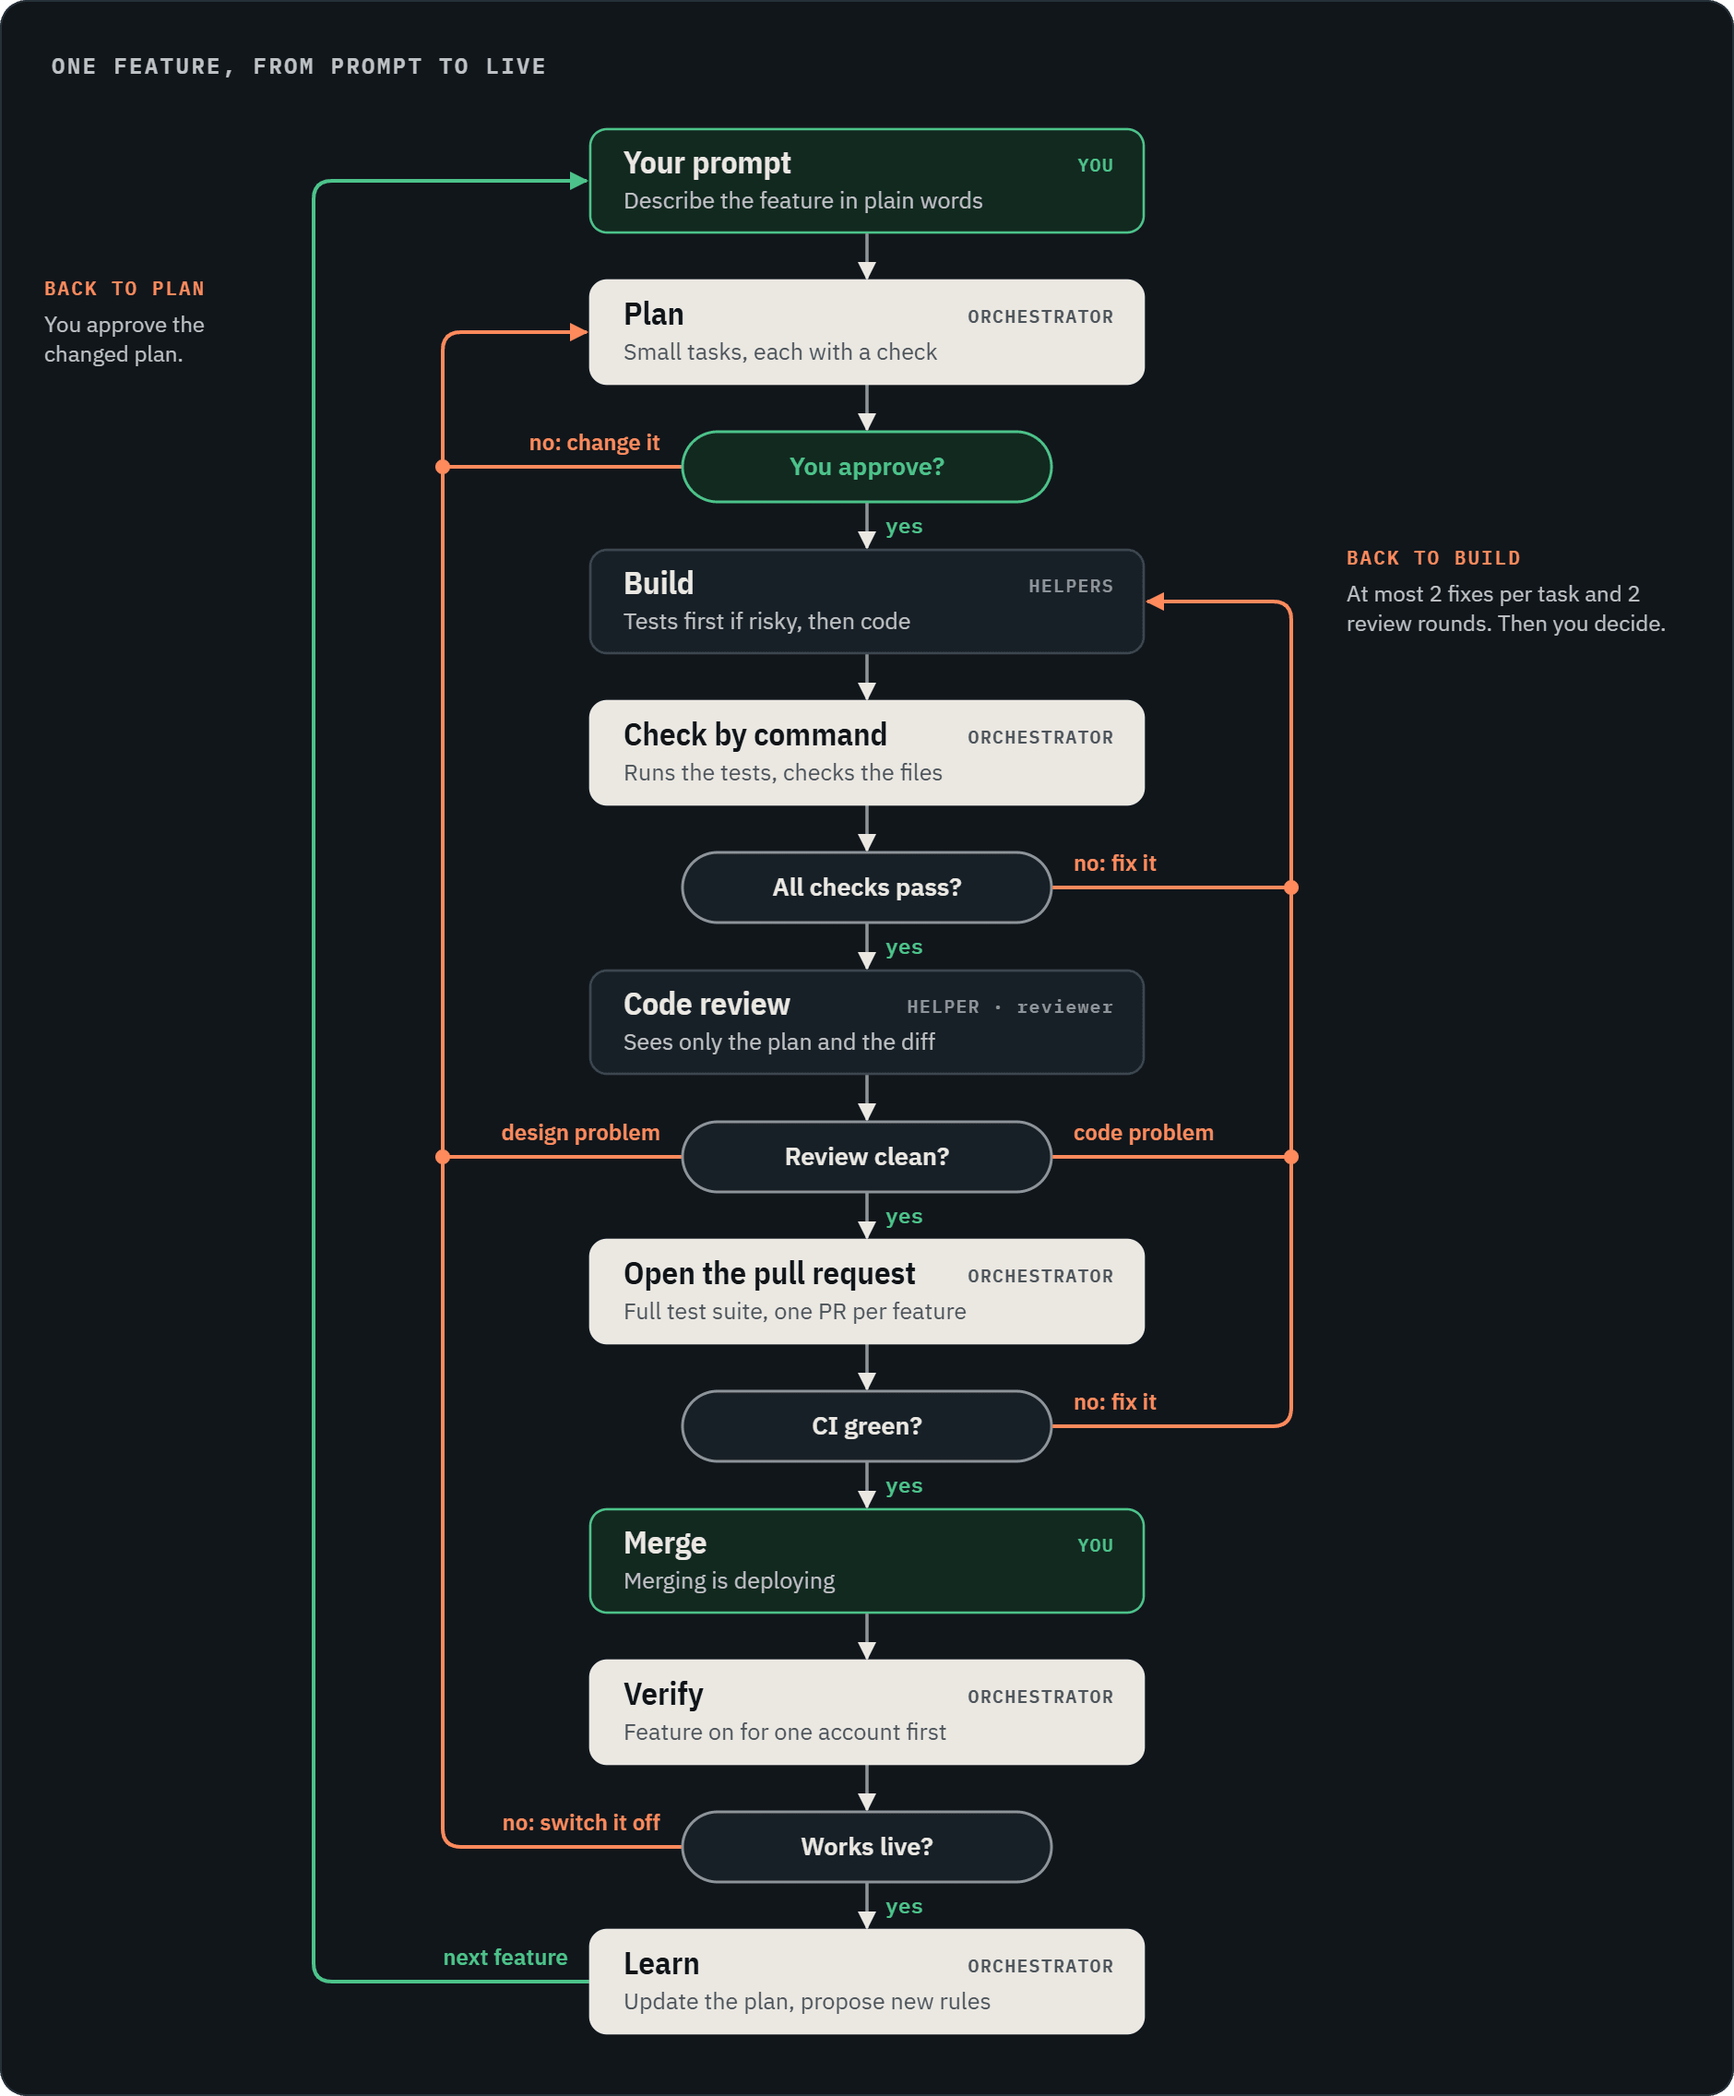
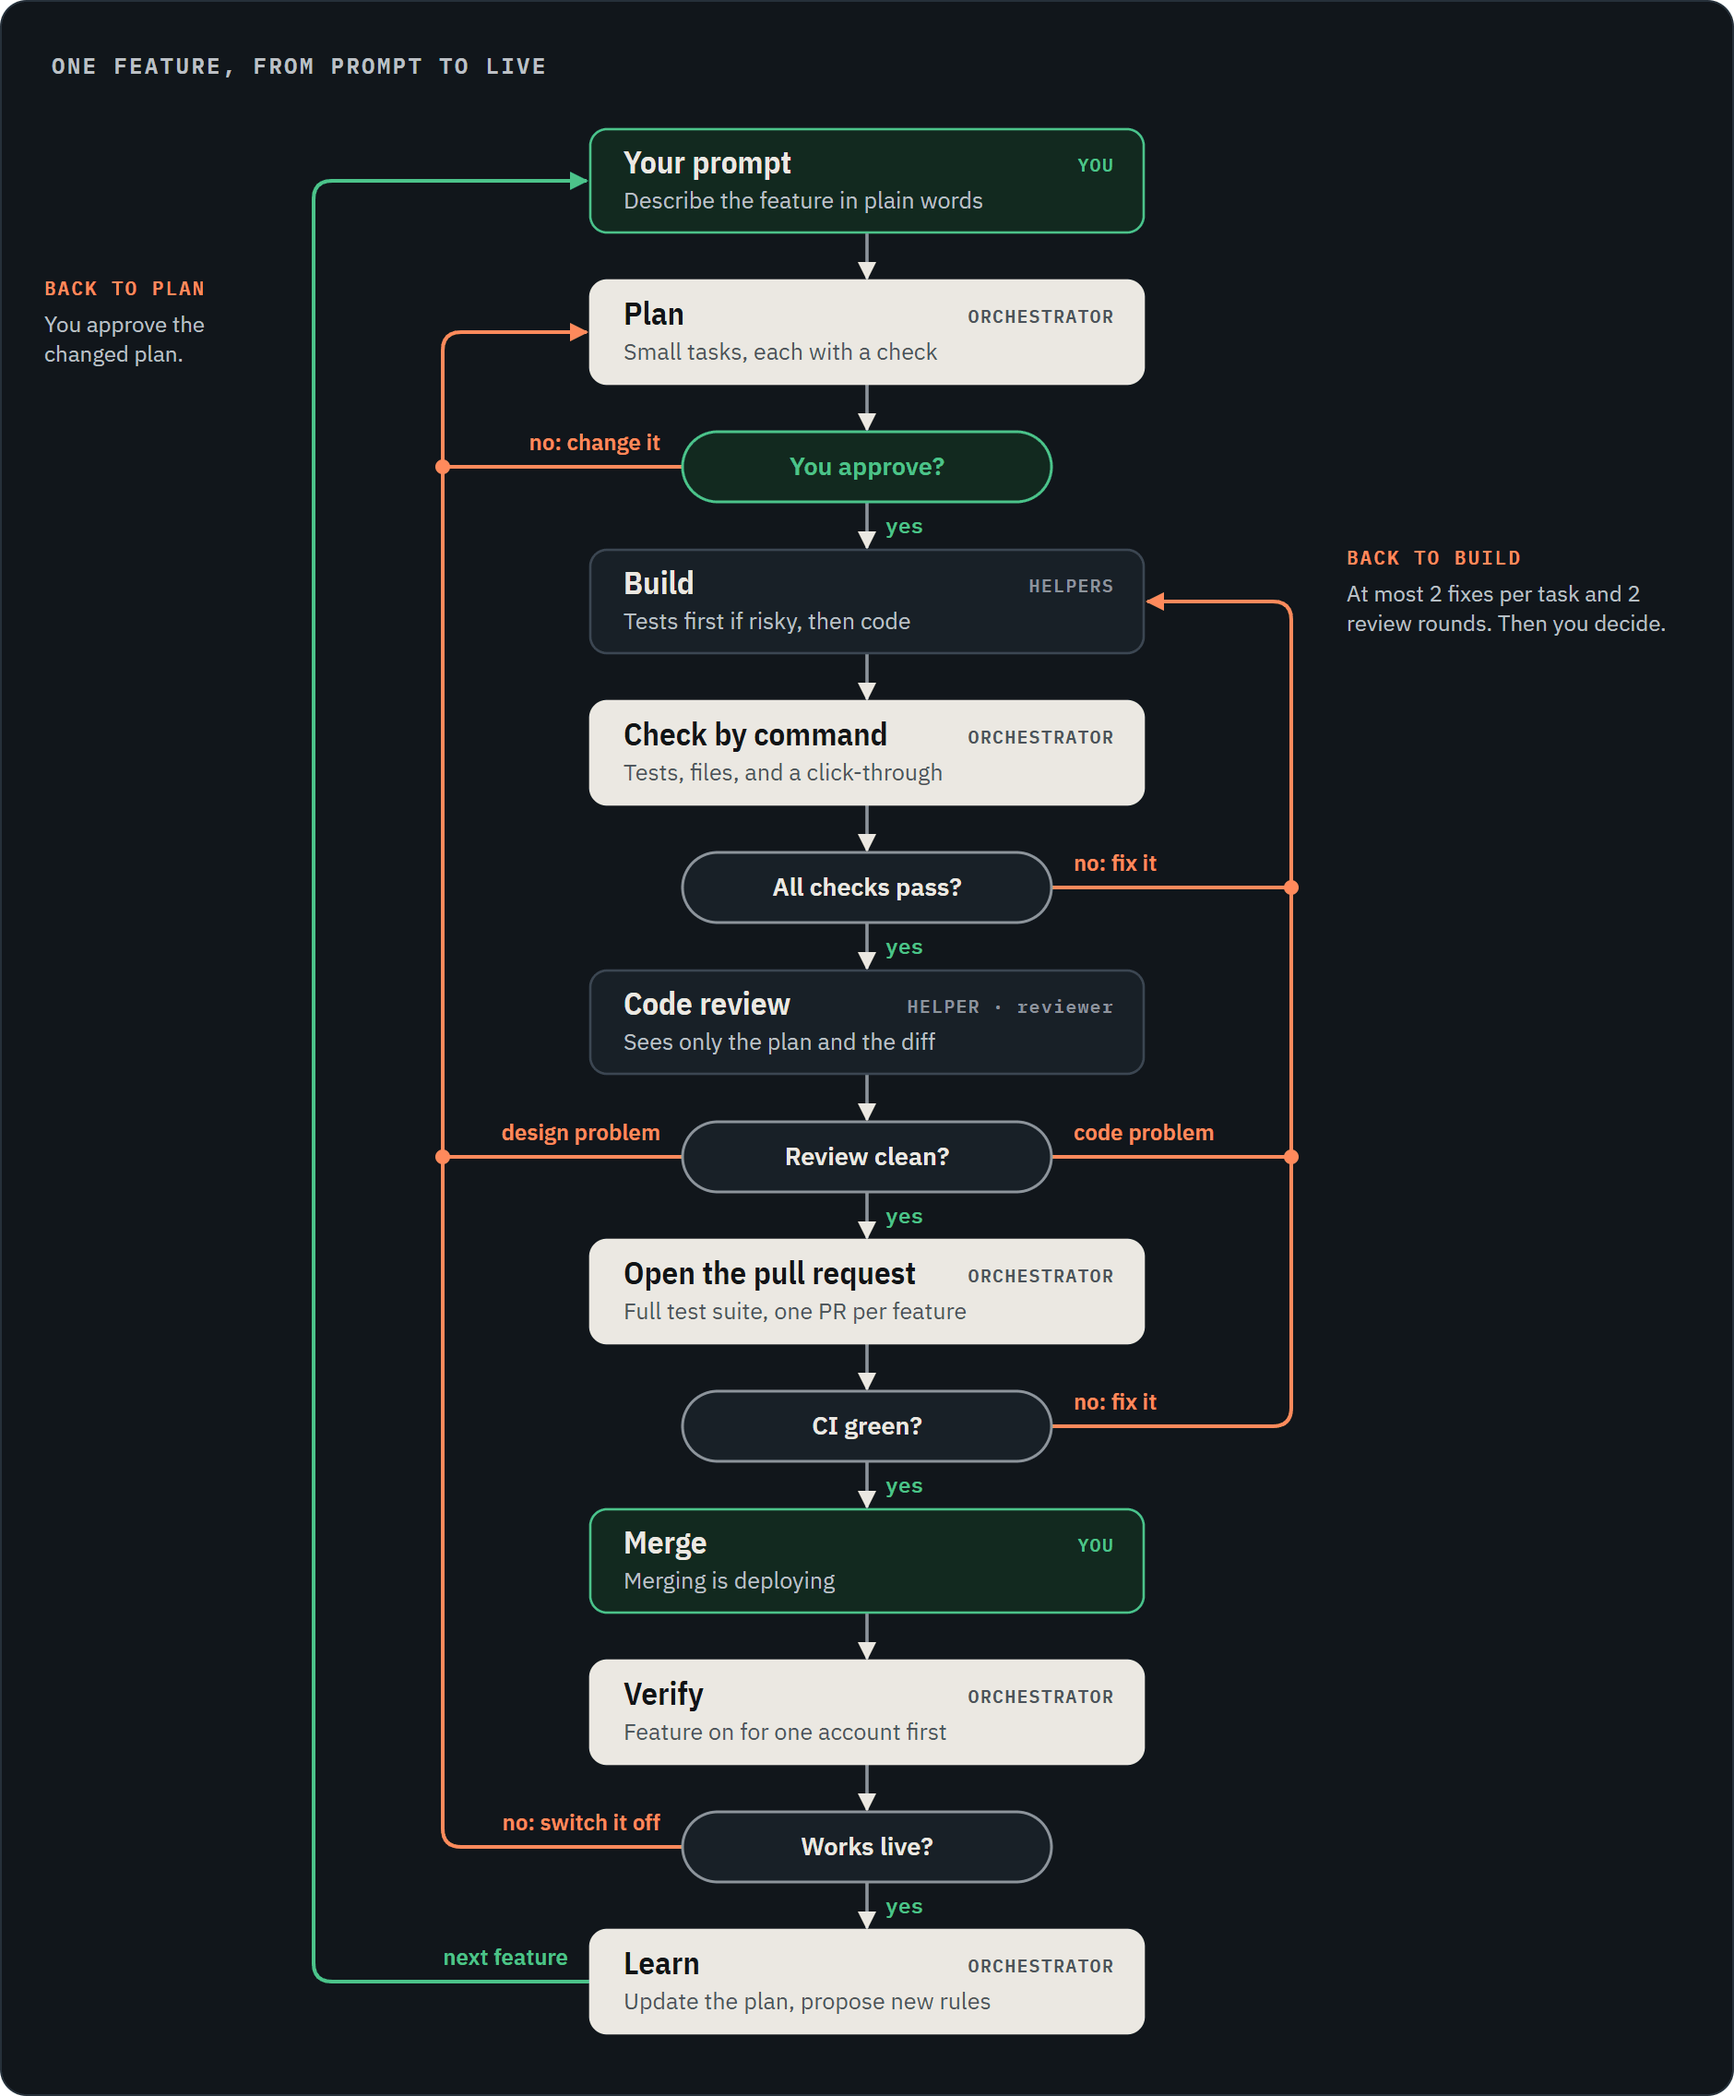
Update README, site and diagrams for v1.2
The team diagram shows eight helpers with scout and ui-tester on Haiku, the loop diagram's check step includes the click-through, and the workspace diagram counts eight helpers. Light and dark PNGs re-rendered at 2x and palette-compressed. README and site labels say v1.2.

Changed region(s): [[0.3702, 0.3438, 0.5245, 0.375], [0.3702, 0.4688, 0.4319, 0.5], [0.8947, 0.2812, 0.9255, 0.3125]]

diff --git a/docs/assets/diagrams.html b/docs/assets/diagrams.html
@@ -120,7 +120,7 @@ function drawLoop() {
     { box: 'plan', who: 'orch', name: 'Plan', sub: 'Small tasks, each with a check' },
     { gate: 'You approve?', who: 'you', no: [{ side: 'L', label: 'no: change it' }] },
     { box: 'build', who: 'help', tag: 'HELPERS', name: 'Build', sub: 'Tests first if risky, then code' },
-    { box: 'check', who: 'orch', name: 'Check by command', sub: 'Runs the tests, checks the files' },
+    { box: 'check', who: 'orch', name: 'Check by command', sub: 'Tests, files, and a click-through' },
     { gate: 'All checks pass?', no: [{ side: 'R', label: 'no: fix it' }] },
     { box: 'review', who: 'help', tag: 'HELPER · reviewer', name: 'Code review', sub: 'Sees only the plan and the diff' },
     { gate: 'Review clean?', no: [{ side: 'R', label: 'code problem' }, { side: 'L', label: 'design problem' }] },
@@ -248,8 +248,9 @@ function drawTeam() {
       ['reviewer-light', 'Opus · high', 'The same review, sized for small work'],
       ['adversarial-reviewer', 'Fable', 'Tries to break big work', 'needs your yes'],
     ] },
-    { x: 664, w: 252, head: 'LOOK UP', sub: 'read-only · one question', rows: [
-      ['scout', 'Sonnet · medium', 'Answers with file:line evidence'],
+    { x: 664, w: 252, head: 'LOOK AND CLICK', sub: 'read-only · one job each', rows: [
+      ['scout', 'Haiku · medium', 'Answers with file:line evidence'],
+      ['ui-tester', 'Haiku · medium', 'Clicks a screen on localhost'],
     ] },
   ];
   // fan-out from the plate
@@ -296,7 +297,7 @@ function drawWorkspace() {
 
   const files = [
     ['CLAUDE.md', 'shared rules'], ['ORCHESTRATOR.md', 'the playbook'], ['PLAN.md', 'Now · roadmap · decisions'],
-    ['.claude/', 'settings + 7 helpers'], ['backlog/', 'ideas, one file each'], ['ops/', 'production scripts', 'you only'],
+    ['.claude/', 'settings + 8 helpers'], ['backlog/', 'ideas, one file each'], ['ops/', 'production scripts', 'you only'],
   ];
   files.forEach(([f, d, flag], i) => {
     const y = fy + 92 + i * 52;

diff --git a/docs/index.html b/docs/index.html
@@ -43,7 +43,7 @@
 <section class="hero" id="top" aria-labelledby="hero-title">
   <div class="wrap hero-grid">
     <div class="hero-copy">
-      <p class="eyebrow">A multi-agent workflow for Claude Code <span class="eyebrow-ver">v1.1</span></p>
+      <p class="eyebrow">A multi-agent workflow for Claude Code <span class="eyebrow-ver">v1.2</span></p>
       <h1 id="hero-title">Claude Code Orchestrator</h1>
       <p class="lede">One orchestrator plans with you in plain language, hands each small task to a specialised helper, proves every change by command, and opens one pull request per feature. <strong>You approve the plan and click merge.</strong> Everything in between runs on its own.</p>
       <div class="hero-actions">

diff --git a/README.md b/README.md
@@ -15,7 +15,7 @@ problems: every hand-off was a chance for something to get lost or misread.
 So I gave the job of the go-between to a single **orchestrator** session. It talks to me, delegates to helpers,
 checks their work itself, and only comes back to me for the decisions that are really mine.
 
-This is **version 1**. It's my personal setup, published in case it helps someone else, and it will keep changing
+This is **version 1.2**. It's my personal setup, published in case it helps someone else, and it will keep changing
 as my own workflow improves.
 
 ## How it works
@@ -23,7 +23,7 @@ as my own workflow improves.
 <picture>
   <source media="(prefers-color-scheme: dark)" srcset="docs/assets/loop-dark.png">
   <source media="(prefers-color-scheme: light)" srcset="docs/assets/loop-light.png">
-  <img alt="Flowchart from your prompt to live. Your prompt, then Plan, then a yes/no check: you approve? No goes back to Plan. Then Build, Check by command, and: all checks pass? No goes back to Build. Code review, then: review clean? A code problem goes back to Build, a design problem back to Plan. Open the pull request, then: CI green? No goes back to Build. You merge, the orchestrator verifies, then: works live? No switches it off and goes back to Plan. Finally Learn, and the next feature starts at a new prompt." src="docs/assets/loop-light.png" width="100%">
+  <img alt="Flowchart from your prompt to live. Your prompt, then Plan, then a yes/no check: you approve? No goes back to Plan. Then Build, Check by command (tests, files and a click-through), and: all checks pass? No goes back to Build. Code review, then: review clean? A code problem goes back to Build, a design problem back to Plan. Open the pull request, then: CI green? No goes back to Build. You merge, the orchestrator verifies, then: works live? No switches it off and goes back to Plan. Finally Learn, and the next feature starts at a new prompt." src="docs/assets/loop-light.png" width="100%">
 </picture>
 
 Every task gets a label from one question: *if this goes wrong, how hard is it to undo?* **Small** work takes the
@@ -36,7 +36,7 @@ Every review finding has to come with evidence, such as a command and its output
 <picture>
   <source media="(prefers-color-scheme: dark)" srcset="docs/assets/team-dark.png">
   <source media="(prefers-color-scheme: light)" srcset="docs/assets/team-light.png">
-  <img alt="You decide four things: approve the plan, say yes to Fable, run migrations, click merge. The orchestrator (Opus) plans, briefs, checks and opens PRs, and never writes product code. It briefs seven helpers in three groups: Build (implementer, implementer-wide, test-writer), Review (reviewer, reviewer-light, adversarial-reviewer, which needs your yes) and Look up (scout)." src="docs/assets/team-light.png" width="100%">
+  <img alt="You decide four things: approve the plan, say yes to Fable, run migrations, click merge. The orchestrator (Opus) plans, briefs, checks and opens PRs, and never writes product code. It briefs eight helpers in three groups: Build (implementer, implementer-wide, test-writer), Review (reviewer, reviewer-light, adversarial-reviewer, which needs your yes) and Look and click (scout and ui-tester, both on Haiku)." src="docs/assets/team-light.png" width="100%">
 </picture>
 
 Each helper is one file in `.claude/agents/` with a fixed model and tool list. No helper can start another.
